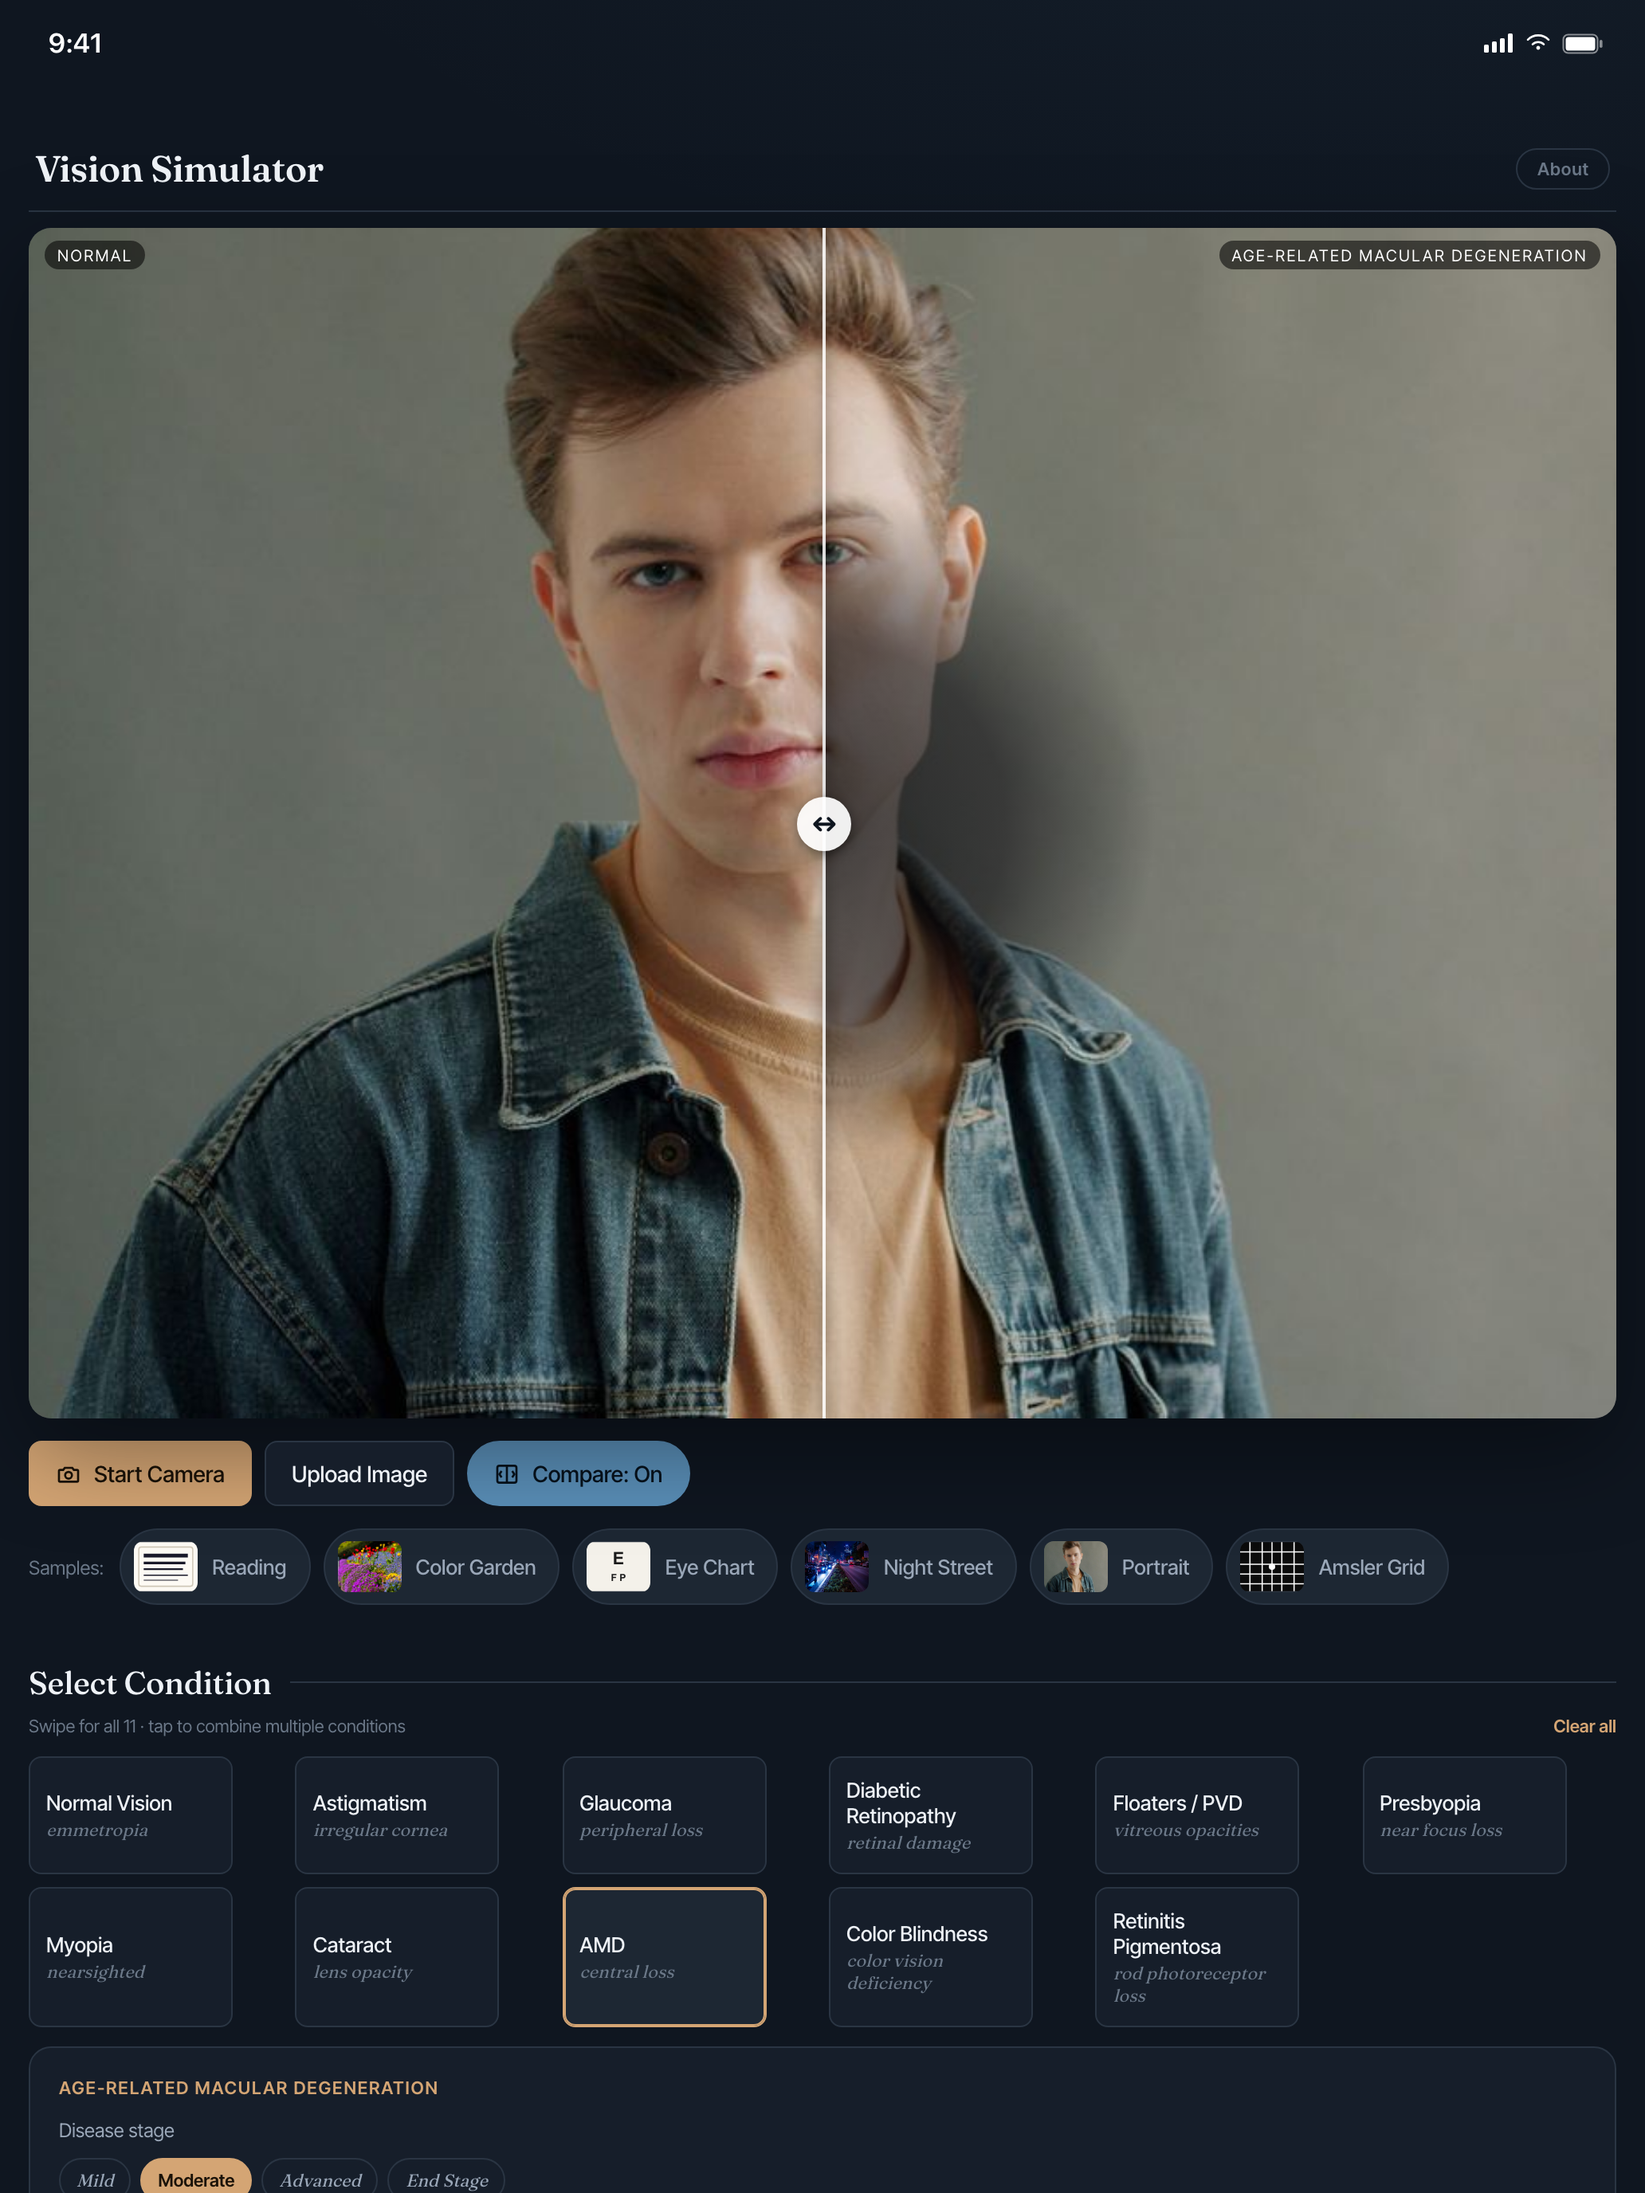
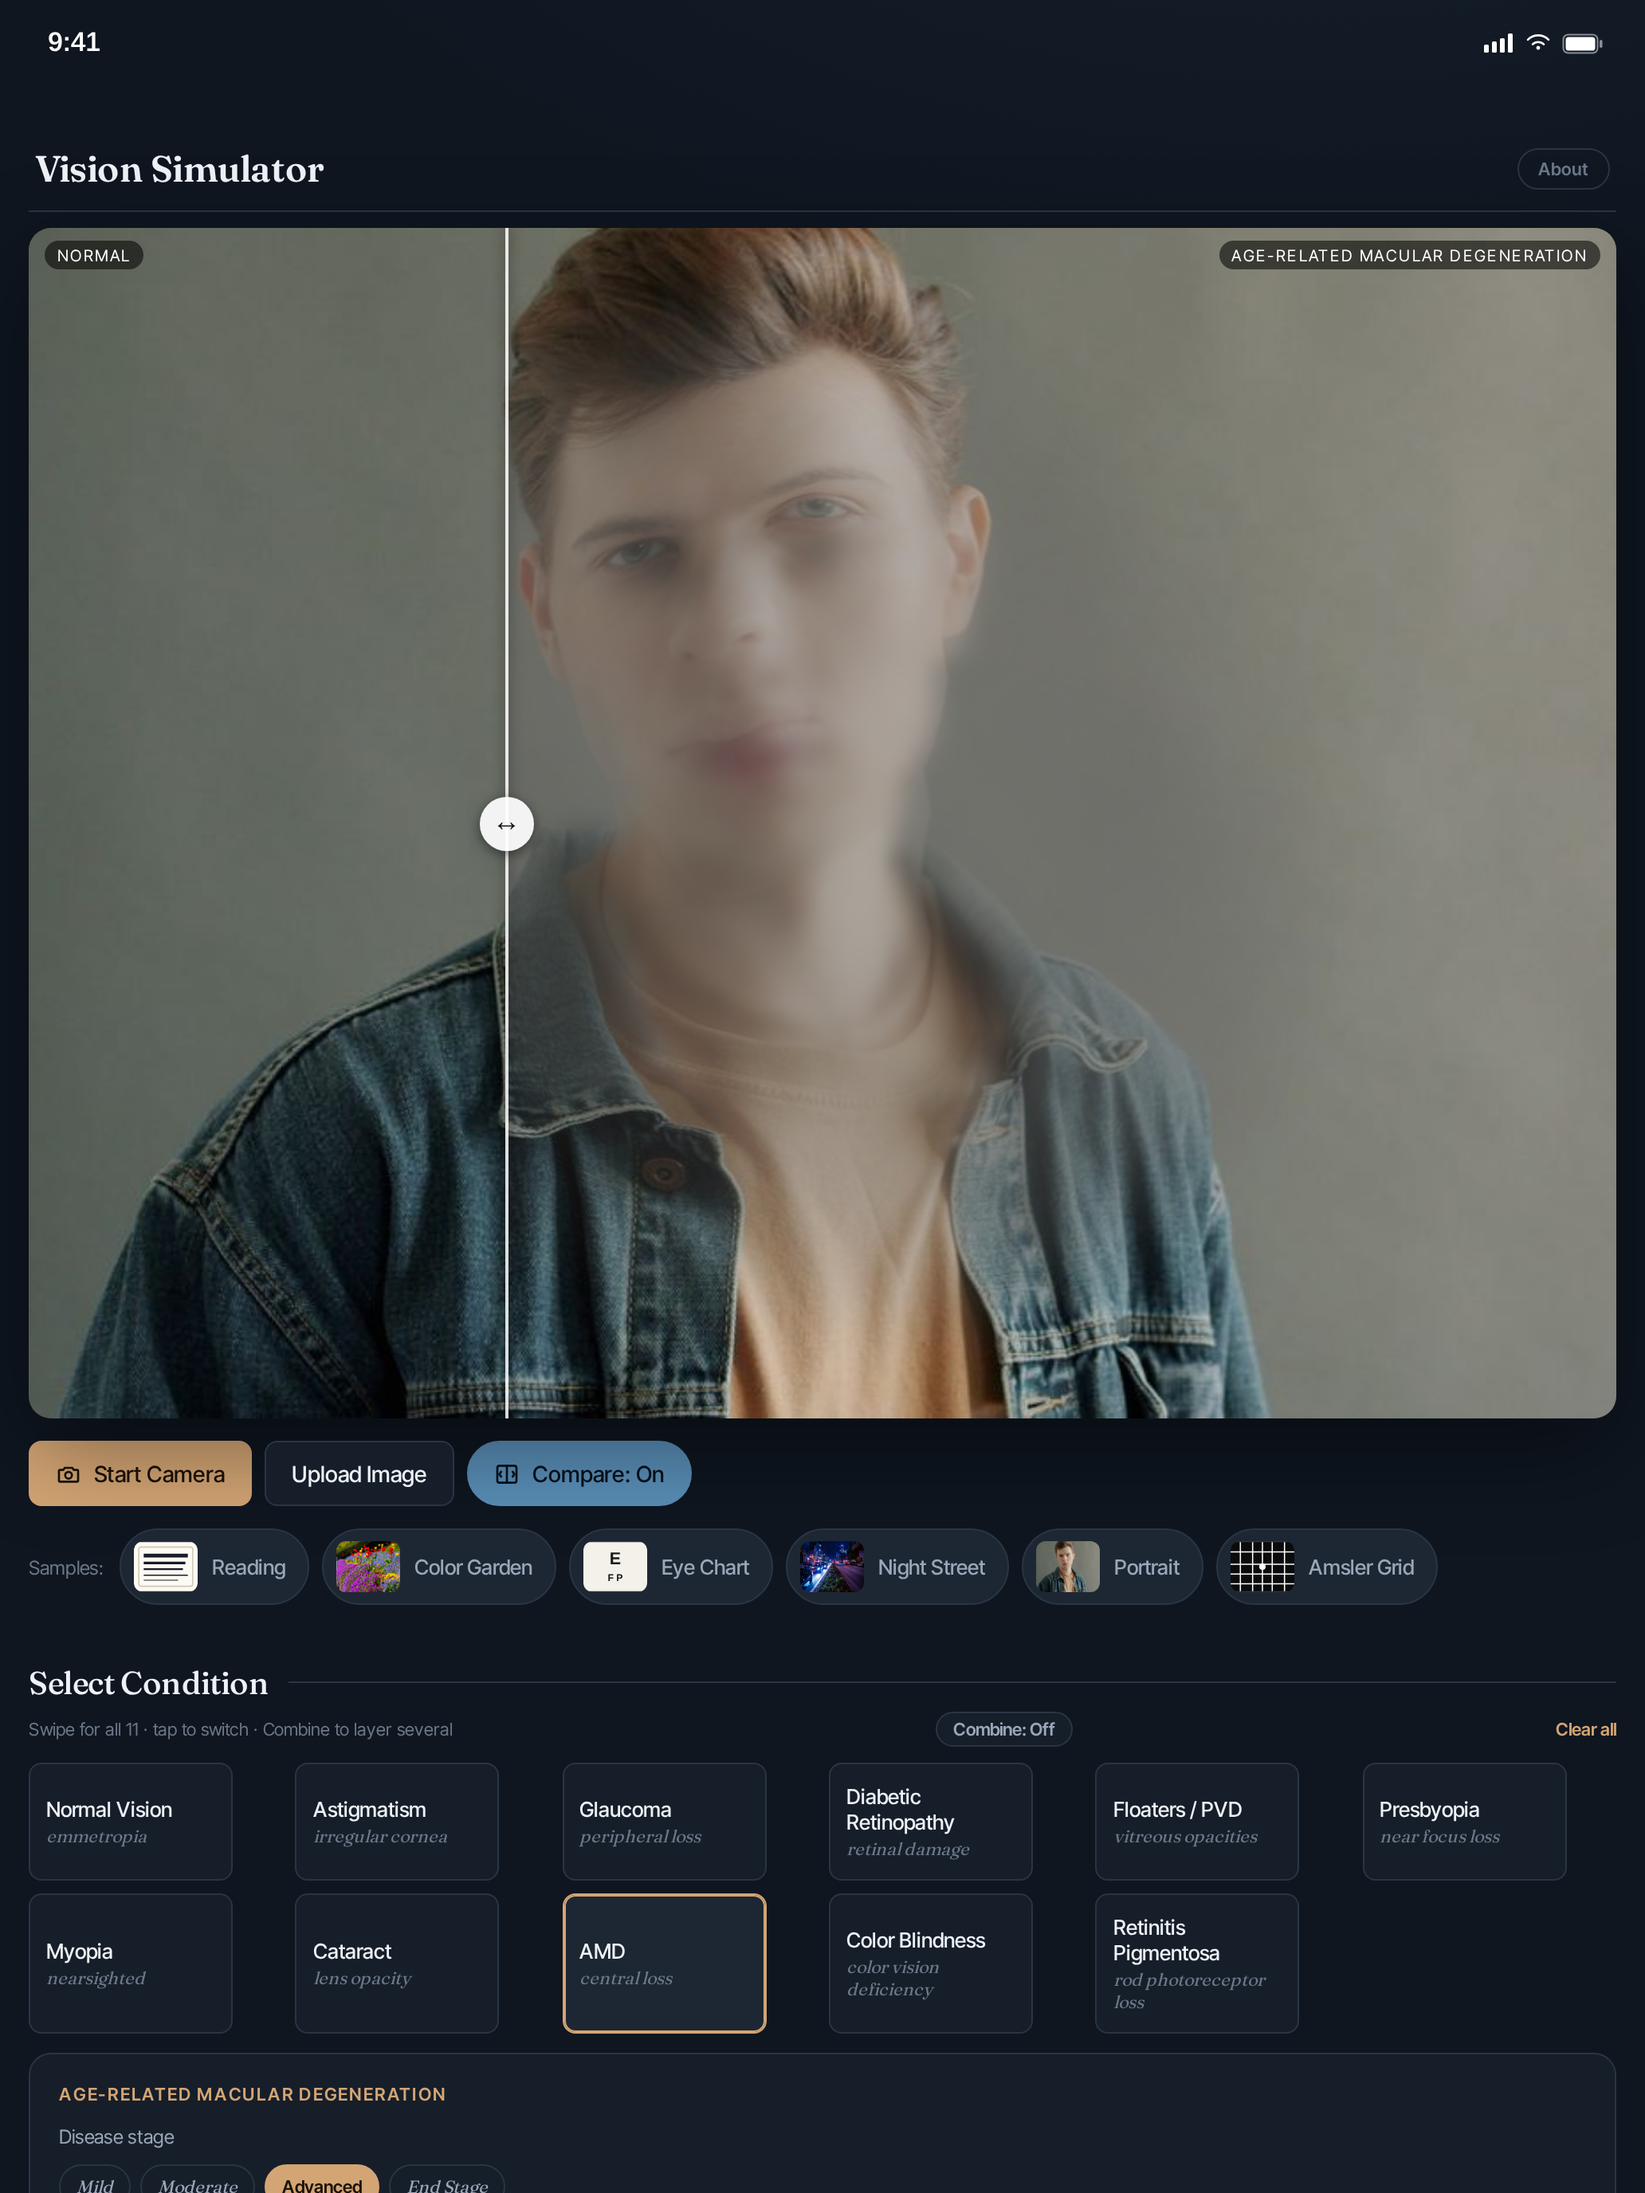
Vision Simulator screenshots: recapture hero, AMD, cataract, color vision with new effects
Captured with ctx.filter disabled to match iOS WKWebView.
Hero: glaucoma Severe, divider 40%. Cataract night: severity 0.48.
Color vision: Protan (Machado). Hero/cataract/color from production main
(post #74); AMD Advanced (divider 30%) from cursor/vision-sim-amd-warp-fix
(PR #75), since production AMD shows tile seams.
Adds capture-store-screens.js.

diff --git a/vision-simulator/capture-store-screens.js b/vision-simulator/capture-store-screens.js
@@ -1,0 +1,101 @@
+// Captures the raw app screens used by iphone-screenshots.html / ipad-screenshots.html
+// from the real app, with CanvasRenderingContext2D.filter disabled so the
+// output matches iOS WKWebView (where ctx.filter is unsupported).
+//
+// Usage:
+//   APP_URL=https://rjlcevans.com/vision-simulator/index.html \
+//   OUT_DIR=./screens ONLY=hero,amd,cataract,colorblind node capture-store-screens.js
+// Optional overrides: HERO_STAGE=Severe HERO_SPLIT=0.4 CAT_SEV=0.48 AMD_STAGE=Advanced
+//   AMD_SPLIT=0.5 CVD_TYPE="Protan (red)" CVD_SPLIT=0.5
+// Writes s1-hero, s2-amd-compare, s3-cataract-night, s5-colorblind-compare
+// (iPhone 1260x2736) and the ipad-* versions (2064x2752).
+const { chromium } = require('playwright');
+const path = require('path');
+
+const APP_URL = process.env.APP_URL || 'https://rjlcevans.com/vision-simulator/index.html';
+const OUT_DIR = process.env.OUT_DIR || path.join(__dirname, 'screens');
+const FACE = path.join(__dirname, 'screens/src/hero-face.jpg');   // see screens/src/CREDITS.md
+const ONLY = (process.env.ONLY || 'hero,amd,cataract,colorblind').split(',');
+const E = process.env;
+
+const DEVICES = [
+  { prefix: '', viewport: { width: 420, height: 912 }, scale: 3 },
+  { prefix: 'ipad-', viewport: { width: 1032, height: 1376 }, scale: 2 },
+];
+
+const STATUS_BAR_HTML = `
+<div id="fakeStatusBar" style="height:54px; box-sizing:border-box; display:flex; align-items:center; justify-content:space-between; padding:0 26px 0 30px; position:relative; z-index:99999; font-family:-apple-system, BlinkMacSystemFont, sans-serif;">
+  <span style="color:#fff; font-size:17px; font-weight:600; letter-spacing:-0.2px;">9:41</span>
+  <div style="display:flex; align-items:center; gap:7px;">
+    <svg width="19" height="12" viewBox="0 0 19 12" fill="none"><rect x="0" y="7" width="3" height="5" rx="0.8" fill="#fff"/><rect x="5" y="5" width="3" height="7" rx="0.8" fill="#fff"/><rect x="10" y="3" width="3" height="9" rx="0.8" fill="#fff"/><rect x="15" y="0" width="3" height="12" rx="0.8" fill="#fff"/></svg>
+    <svg width="16" height="12" viewBox="0 0 16 12" fill="none"><path d="M8 10.2C8.66 10.2 9.2 9.66 9.2 9C9.2 8.34 8.66 7.8 8 7.8C7.34 7.8 6.8 8.34 6.8 9C6.8 9.66 7.34 10.2 8 10.2Z" fill="#fff"/><path d="M4.5 6.8C5.4 5.9 6.65 5.35 8 5.35C9.35 5.35 10.6 5.9 11.5 6.8" stroke="#fff" stroke-width="1.3" stroke-linecap="round" fill="none"/><path d="M1.5 3.9C3.15 2.25 5.45 1.2 8 1.2C10.55 1.2 12.85 2.25 14.5 3.9" stroke="#fff" stroke-width="1.3" stroke-linecap="round" fill="none"/></svg>
+    <svg width="26" height="13" viewBox="0 0 26 13" fill="none"><rect x="0.75" y="0.75" width="21.5" height="11.5" rx="3" stroke="#fff" stroke-opacity="0.5" stroke-width="1"/><rect x="2.25" y="2.25" width="18.5" height="8.5" rx="1.8" fill="#fff"/><rect x="23.5" y="4" width="1.8" height="5" rx="0.9" fill="#fff" fill-opacity="0.5"/></svg>
+  </div>
+</div>`;
+
+const SHOTS = {
+  hero: { file: 's1-hero.png', async run(p) {
+    await p.setInputFiles('#upload', FACE); await p.waitForTimeout(500);
+    await cond(p, 'glaucoma'); await preset(p, 'glaucomaStages', E.HERO_STAGE || 'Severe');
+    await compare(p, parseFloat(E.HERO_SPLIT || '0.4'));
+  } },
+  amd: { file: 's2-amd-compare.png', async run(p) {
+    await sample(p, 'face'); await cond(p, 'amd'); await preset(p, 'amdStages', E.AMD_STAGE || 'Advanced');
+    await compare(p, parseFloat(E.AMD_SPLIT || '0.5'));
+  } },
+  cataract: { file: 's3-cataract-night.png', async run(p) {
+    await sample(p, 'street'); await cond(p, 'cataract'); await slider(p, 'ctrl_cataractSev', E.CAT_SEV || '0.48');
+  } },
+  colorblind: { file: 's5-colorblind-compare.png', async run(p) {
+    await sample(p, 'garden'); await cond(p, 'colorblind'); await preset(p, 'cvdTypes', E.CVD_TYPE || 'Protan (red)');
+    await compare(p, parseFloat(E.CVD_SPLIT || '0.5'));
+  } },
+};
+
+async function sample(p, k) { await p.click(`#sampleRow [data-sample="${k}"]`); await p.waitForTimeout(400); }
+async function cond(p, c) { await p.click(`.cond[data-cond="${c}"]`); await p.waitForTimeout(200); }
+async function preset(p, group, text) { await p.click(`#${group} .preset:text-is("${text}")`); await p.waitForTimeout(200); }
+async function slider(p, id, v) {
+  await p.evaluate(([id, v]) => { const el = document.getElementById(id); el.value = v; el.dispatchEvent(new Event('input')); }, [id, v]);
+  await p.waitForTimeout(200);
+}
+async function compare(p, split) {
+  await p.click('#compareToggle'); await p.waitForTimeout(250);
+  if (Math.abs(split - 0.5) < 0.01) return;
+  const box = await p.locator('.stage-wrap').boundingBox();       // drag the divider like a user
+  const y = box.y + box.height / 2;
+  await p.mouse.move(box.x + box.width * 0.5, y); await p.mouse.down();
+  await p.mouse.move(box.x + box.width * split, y, { steps: 6 }); await p.mouse.up();
+}
+
+(async () => {
+  const browser = await chromium.launch();
+  const errors = [];
+  for (const key of ONLY) {
+    const s = SHOTS[key];
+    for (const d of DEVICES) {
+      const ctx = await browser.newContext({ viewport: d.viewport, deviceScaleFactor: d.scale });
+      await ctx.addInitScript(() => {
+        window.Capacitor = { isNativePlatform: () => true };
+        // iOS WKWebView ignores ctx.filter; emulate that so captures match iPhone.
+        Object.defineProperty(CanvasRenderingContext2D.prototype, 'filter', { get() { return 'none'; }, set() {}, configurable: true });
+      });
+      const p = await ctx.newPage();
+      p.on('pageerror', e => errors.push(`${key}: ${e.message}`));
+      p.on('console', m => { if (m.type() === 'error') errors.push(`${key}: ${m.text()}`); });
+      await p.goto(APP_URL + (APP_URL.includes('?') ? '&' : '?') + 'cb=' + Date.now(), { waitUntil: 'networkidle' });
+      await p.waitForTimeout(400);
+      await s.run(p);
+      await p.evaluate(() => { window.scrollTo(0, 0); document.activeElement && document.activeElement.blur(); });
+      await p.mouse.move(0, 0);
+      await p.evaluate((html) => { const w = document.createElement('div'); w.innerHTML = html; document.body.insertBefore(w.firstElementChild, document.body.firstChild); }, STATUS_BAR_HTML);
+      await p.waitForTimeout(250);
+      const out = path.join(OUT_DIR, d.prefix + s.file);
+      await p.screenshot({ path: out });
+      console.log('saved', out);
+      await ctx.close();
+    }
+  }
+  if (errors.length) console.log('PAGE ERRORS:', errors);
+  await browser.close();
+})();
